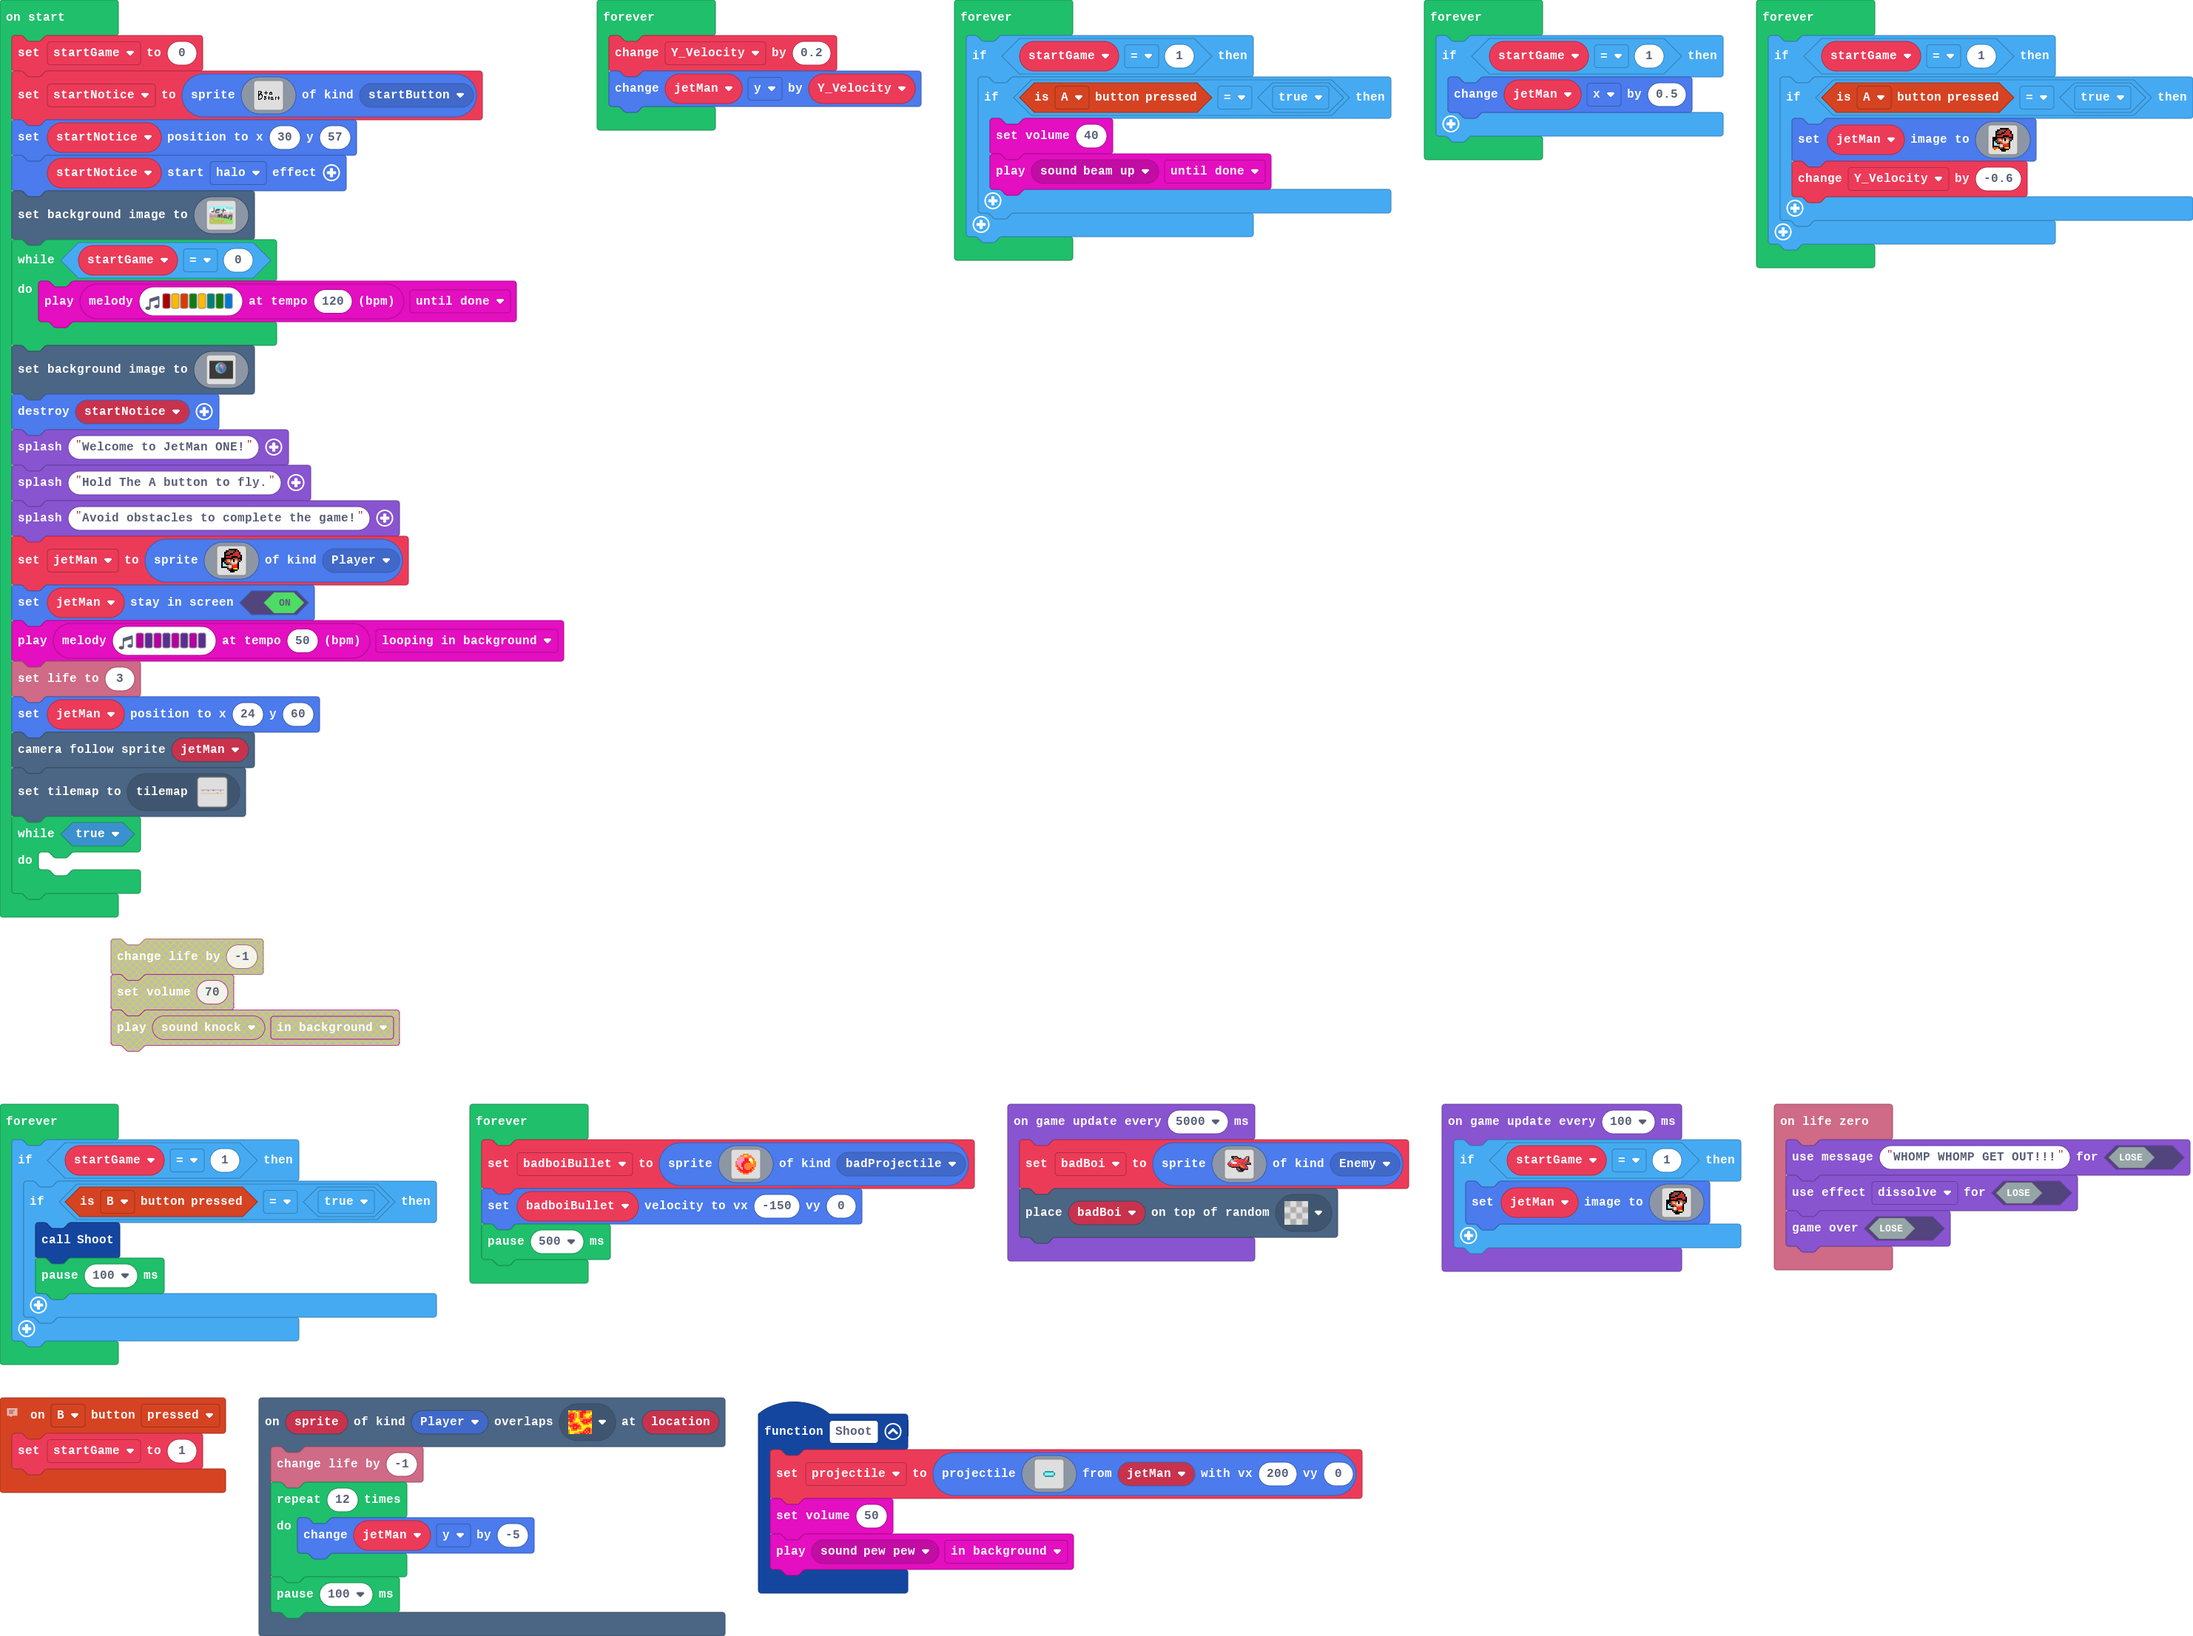
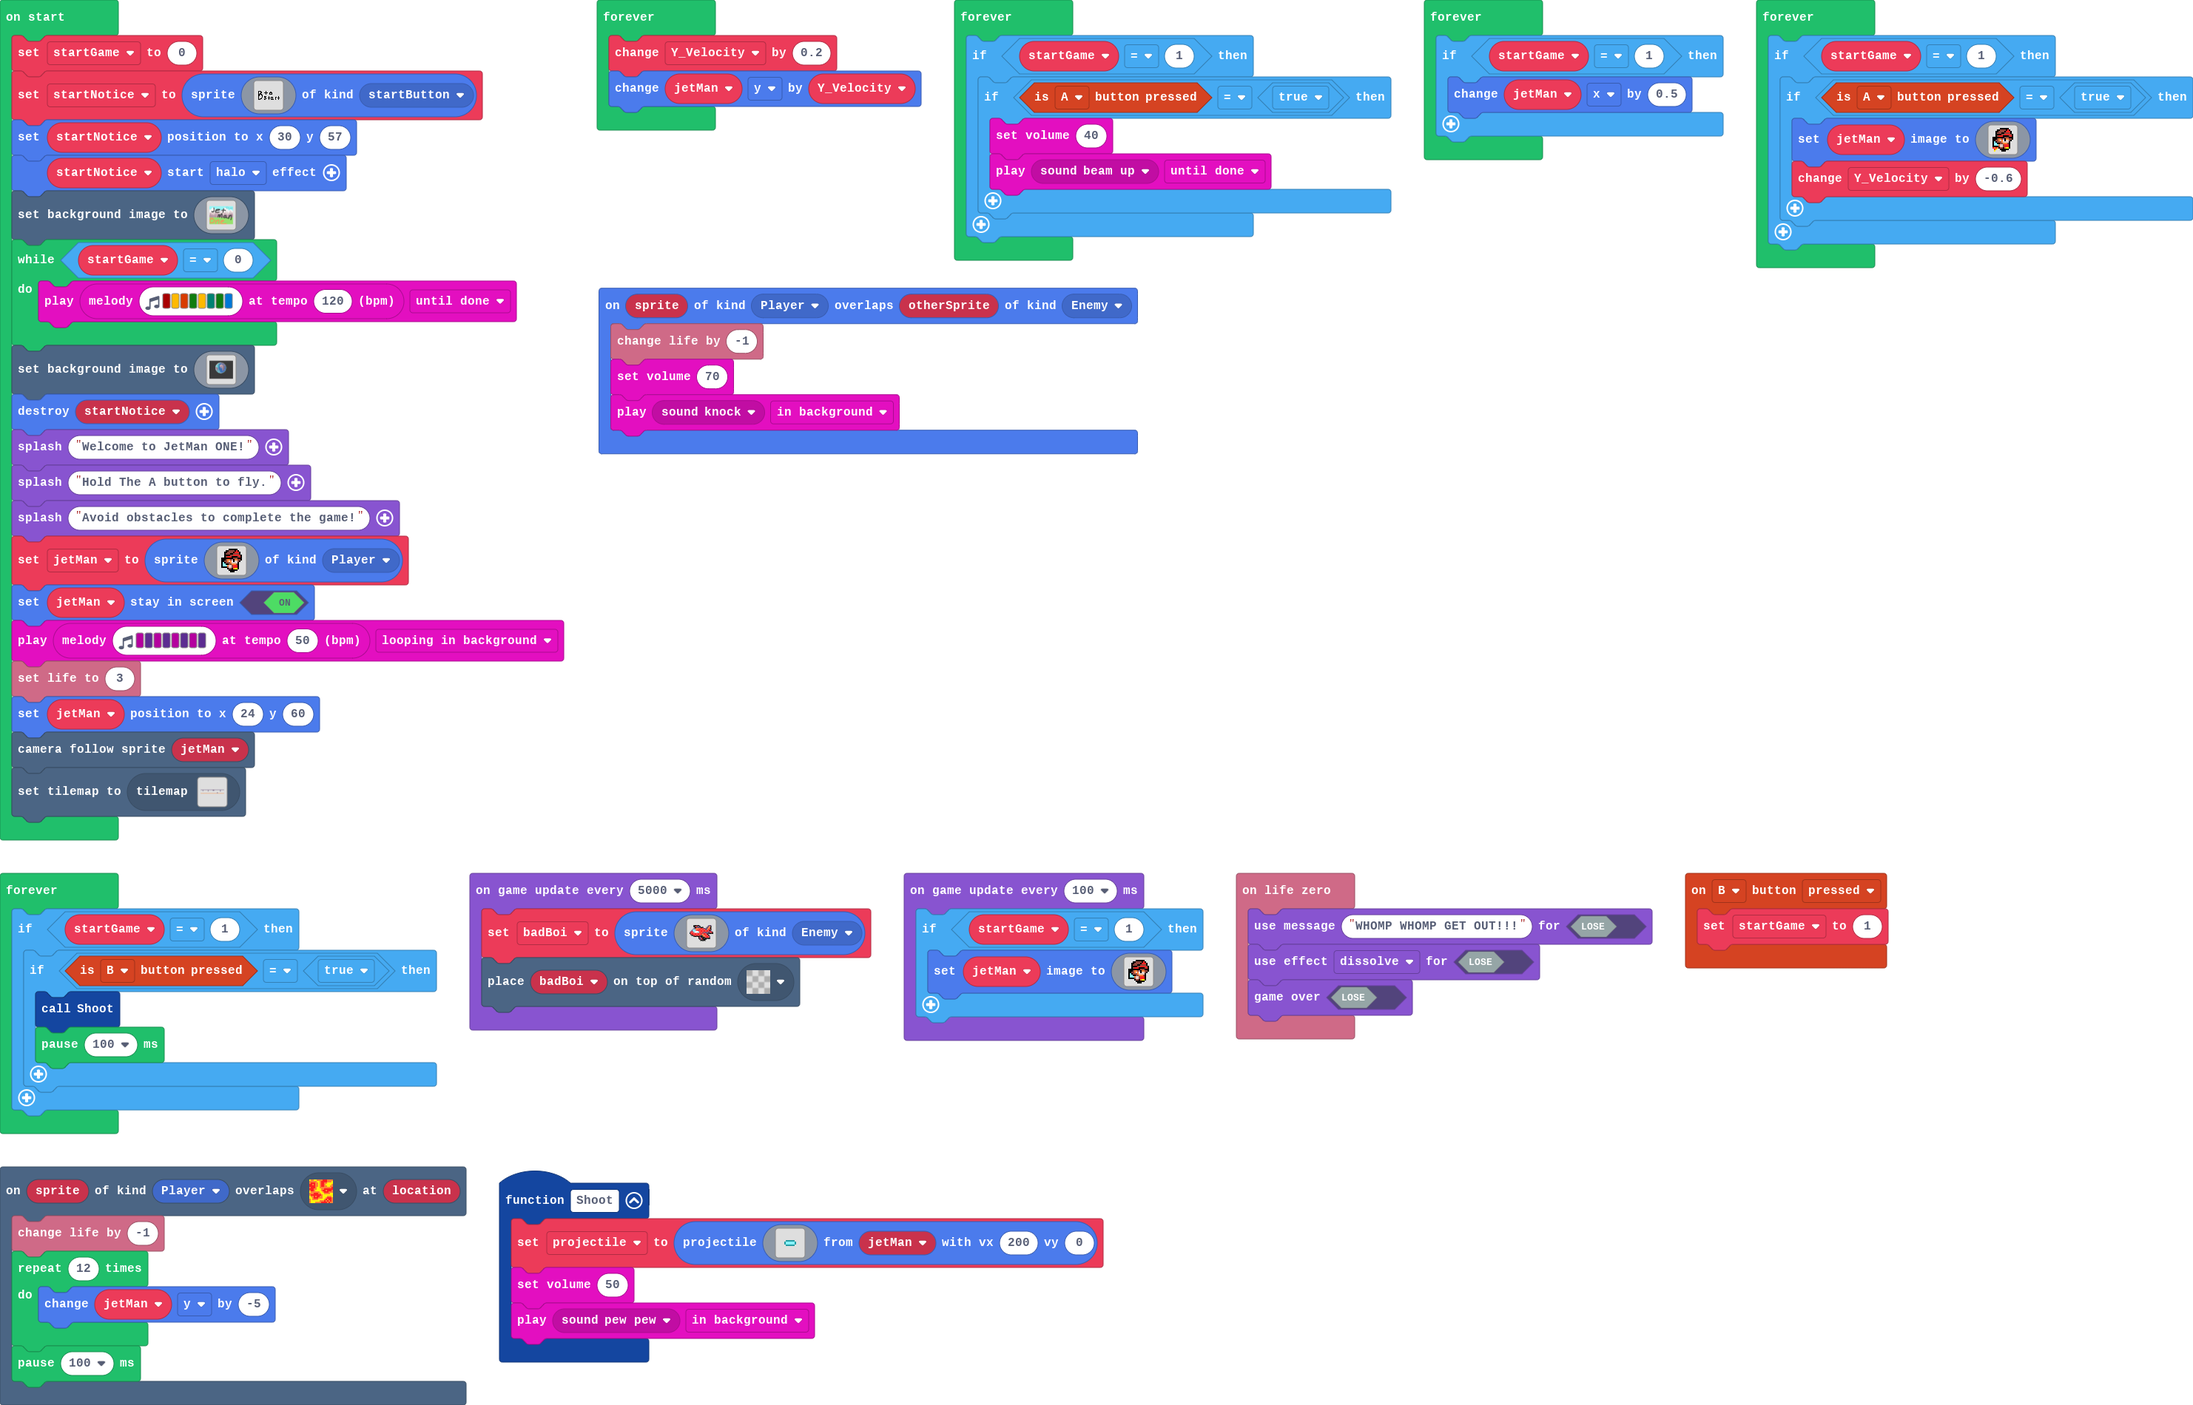
Update main.blocks, main.ts, tilemap.g.jres, tilemap.g.ts

diff --git a/main.ts b/main.ts
@@ -2,9 +2,6 @@ namespace SpriteKind {
     export const startButton = SpriteKind.create()
     export const badProjectile = SpriteKind.create()
 }
-// To finish:
-// 
-// Level, GROUND MECHANICS, Shooting, Bugs, and Polishing.
 controller.B.onEvent(ControllerButtonEvent.Pressed, function () {
     startGame = 1
 })
@@ -42,7 +39,11 @@ info.onLifeZero(function () {
     game.setGameOverEffect(false, effects.dissolve)
     game.gameOver(false)
 })
-let badboiBullet: Sprite = null
+sprites.onOverlap(SpriteKind.Player, SpriteKind.Enemy, function (sprite, otherSprite) {
+    info.changeLifeBy(-1)
+    music.setVolume(70)
+    music.play(music.melodyPlayable(music.knock), music.PlaybackMode.InBackground)
+})
 let Y_Velocity = 0
 let badBoi: Sprite = null
 let projectile: Sprite = null
@@ -68,9 +69,6 @@ info.setLife(3)
 jetMan.setPosition(24, 60)
 scene.cameraFollowSprite(jetMan)
 tiles.setCurrentTilemap(tilemap`level`)
-while (true) {
-	
-}
 game.onUpdateInterval(5000, function () {
     badBoi = sprites.create(assets.image`enemyPlane`, SpriteKind.Enemy)
     tiles.placeOnRandomTile(badBoi, assets.tile`transparency16`)
@@ -107,28 +105,6 @@ forever(function () {
             pause(100)
         }
     }
-})
-forever(function () {
-    badboiBullet = sprites.create(img`
-        . . . . . . . . . . . . . . . . 
-        . . . . . . 4 4 4 4 . . . . . . 
-        . . . . 4 4 4 5 5 4 4 4 . . . . 
-        . . . 3 3 3 3 4 4 4 4 4 4 . . . 
-        . . 4 3 3 3 3 2 2 2 1 1 4 4 . . 
-        . . 3 3 3 3 3 2 2 2 1 1 5 4 . . 
-        . 4 3 3 3 3 2 2 2 2 2 5 5 4 4 . 
-        . 4 3 3 3 2 2 2 4 4 4 4 5 4 4 . 
-        . 4 4 3 3 2 2 4 4 4 4 4 4 4 4 . 
-        . 4 2 3 3 2 2 4 4 4 4 4 4 4 4 . 
-        . . 4 2 3 3 2 4 4 4 4 4 2 4 . . 
-        . . 4 2 2 3 2 2 4 4 4 2 4 4 . . 
-        . . . 4 2 2 2 2 2 2 2 2 4 . . . 
-        . . . . 4 4 2 2 2 2 4 4 . . . . 
-        . . . . . . 4 4 4 4 . . . . . . 
-        . . . . . . . . . . . . . . . . 
-        `, SpriteKind.badProjectile)
-    badboiBullet.setVelocity(-150, 0)
-    pause(500)
 })
 game.onUpdateInterval(100, function () {
     if (startGame == 1) {

diff --git a/tilemap.g.ts b/tilemap.g.ts
@@ -43,6 +43,25 @@ namespace myTiles {
 .........................................................................22.............................
 ........................................................................................................
 `, [myTiles.transparency16,sprites.dungeon.hazardLava1,sprites.dungeon.darkGroundEast,sprites.dungeon.darkGroundSouthEast0,sprites.dungeon.darkGroundSouthWest0,sprites.dungeon.darkGroundWest,sprites.builtin.brick,sprites.dungeon.darkGroundNorthWest0,sprites.dungeon.darkGroundNorthEast0,sprites.dungeon.darkGroundCenter,sprites.dungeon.darkGroundSouth], TileScale.Sixteen);
+            case "level1":
+            case "level1":return tiles.createTilemap(hex`1000100000000000000000000000000000000000000000000000000000000000000000000000000000000000000000000000000000000000000000000000000000000000000000000000000000000000000000000000000000000000000000000000000000000000000000000000000000000000000000000000000000000000000000000000000000000000000000000000000000000000000000000000000000000000000000000000000000000000000000000000000000000000000000000000000000000000000000000000000000000000000000000000000000000000000000000000000000000000000000000000000000000000000000000000000000000000`, img`
+. . . . . . . . . . . . . . . . 
+. . . . . . . . . . . . . . . . 
+. . . . . . . . . . . . . . . . 
+. . . . . . . . . . . . . . . . 
+. . . . . . . . . . . . . . . . 
+. . . . . . . . . . . . . . . . 
+. . . . . . . . . . . . . . . . 
+. . . . . . . . . . . . . . . . 
+. . . . . . . . . . . . . . . . 
+. . . . . . . . . . . . . . . . 
+. . . . . . . . . . . . . . . . 
+. . . . . . . . . . . . . . . . 
+. . . . . . . . . . . . . . . . 
+. . . . . . . . . . . . . . . . 
+. . . . . . . . . . . . . . . . 
+. . . . . . . . . . . . . . . . 
+`, [myTiles.transparency16], TileScale.Sixteen);
         }
         return null;
     })
